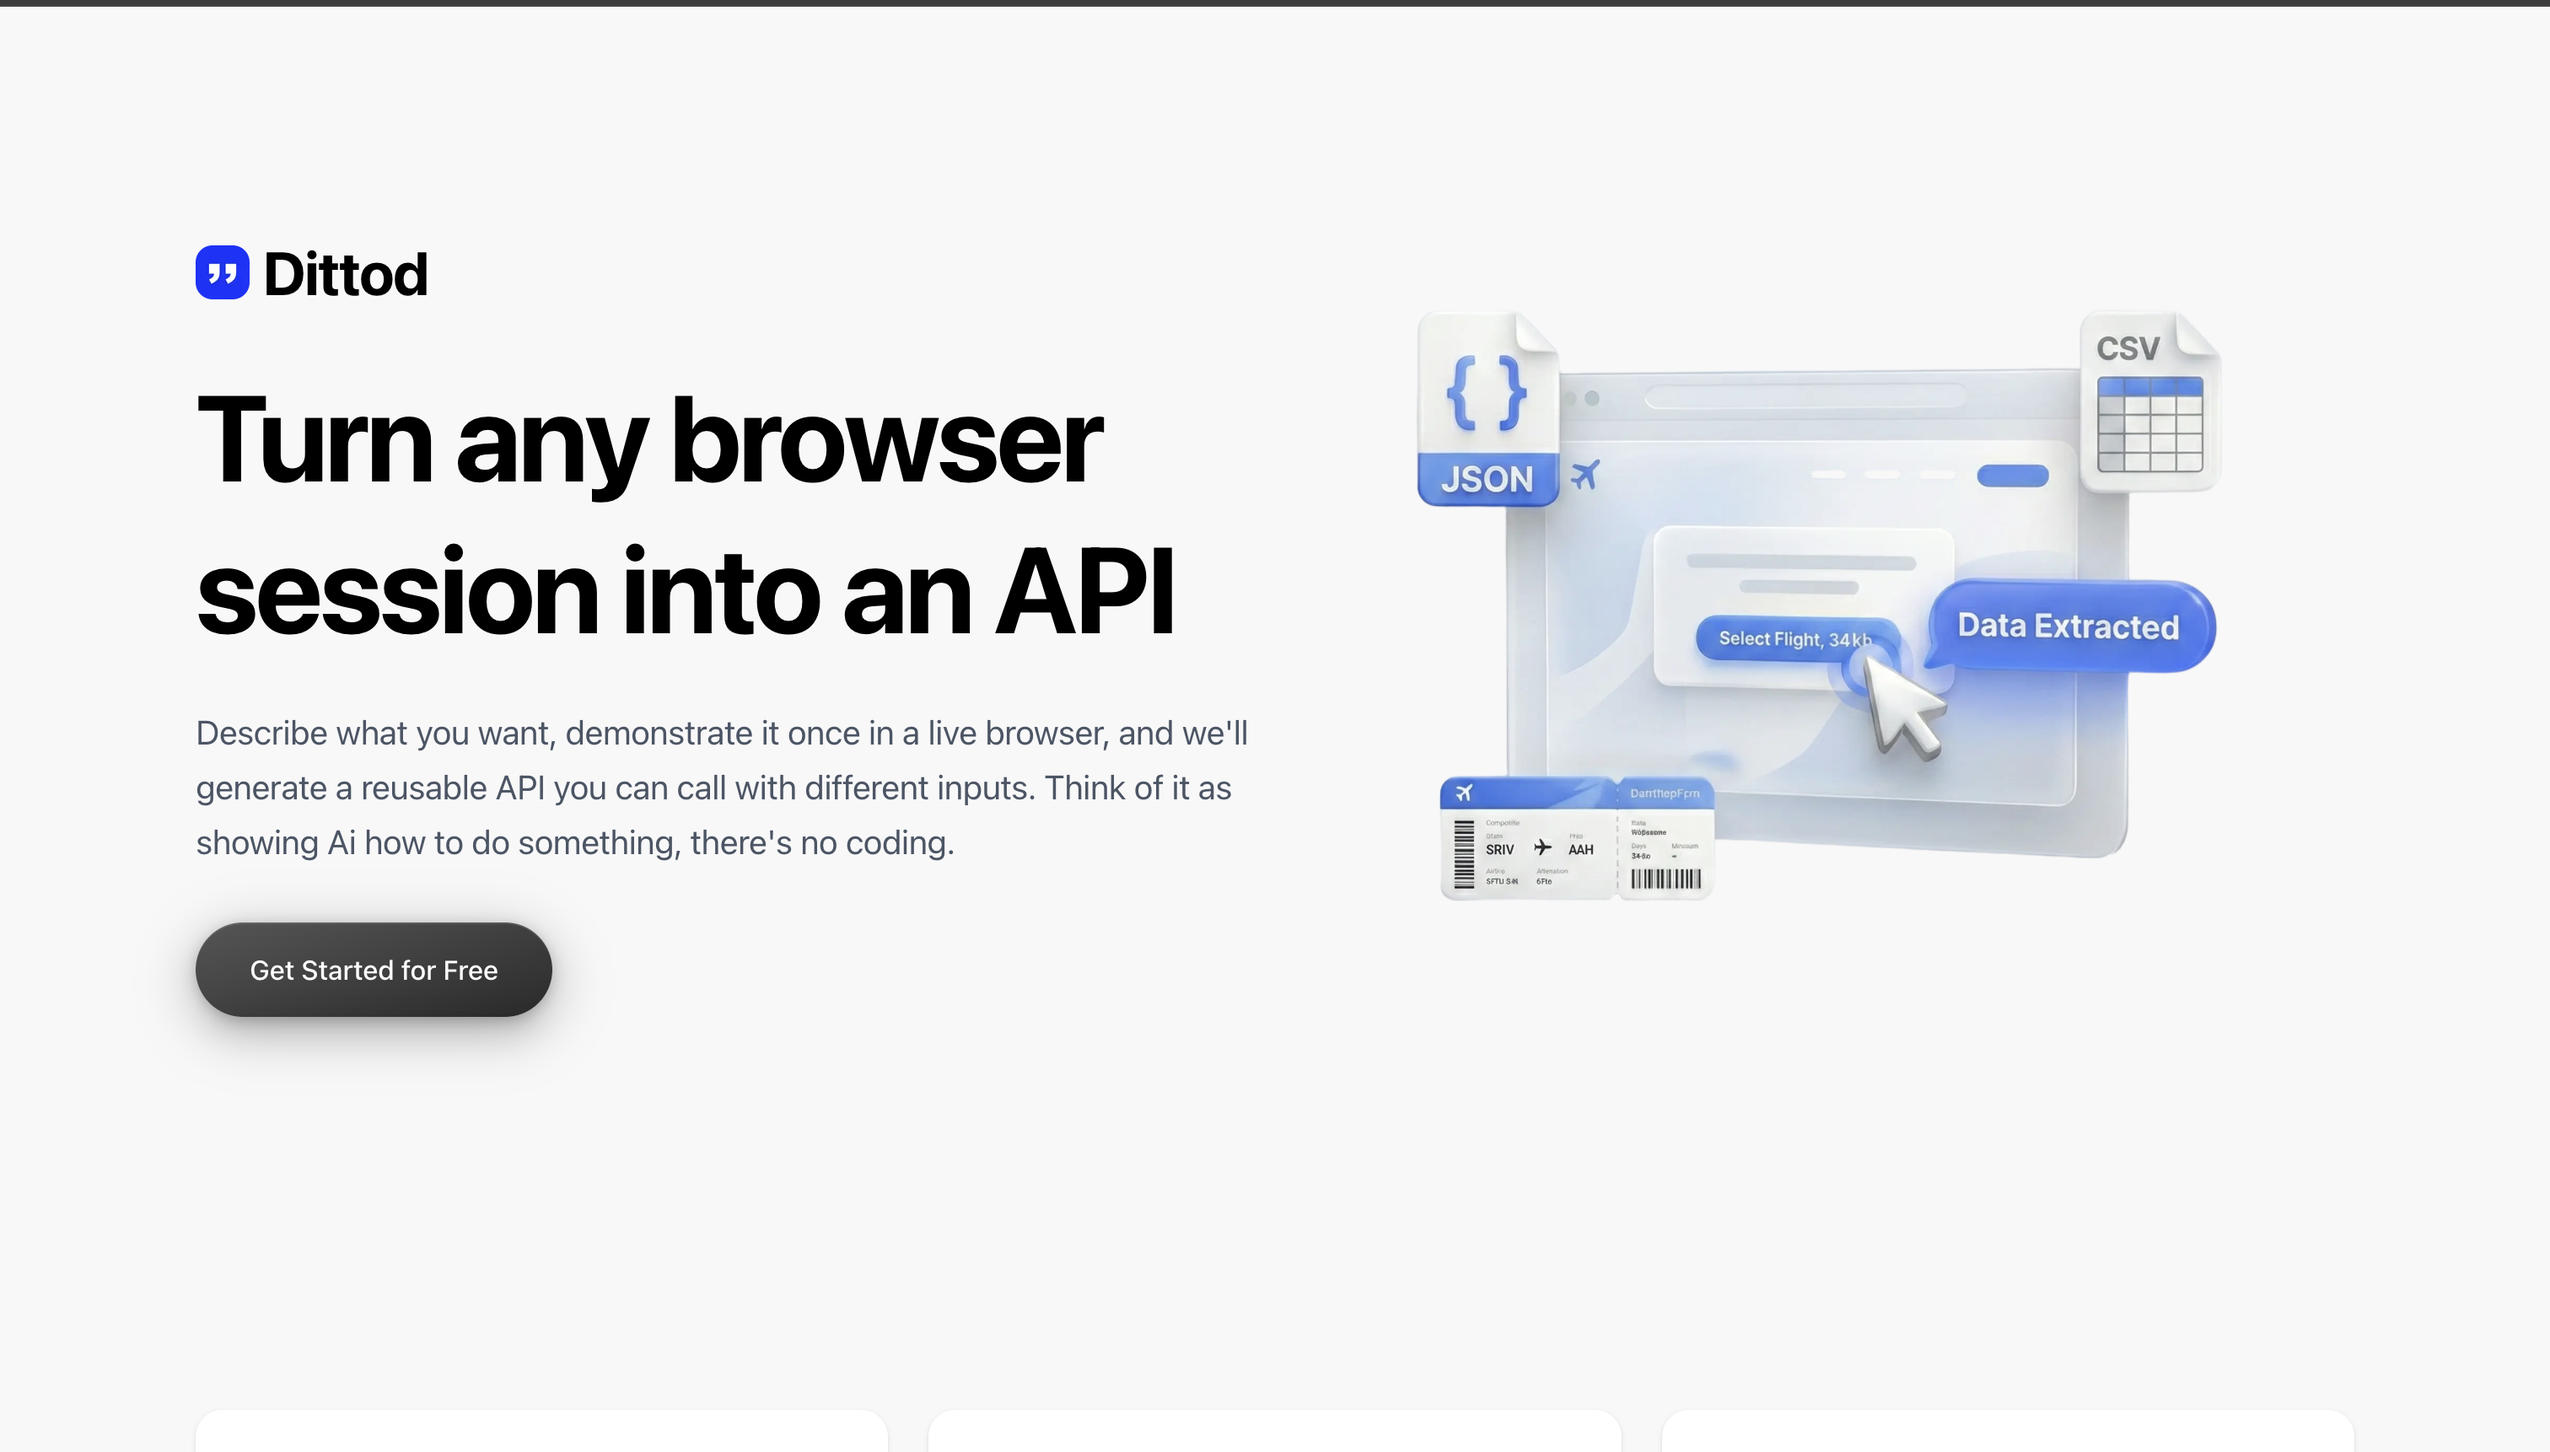
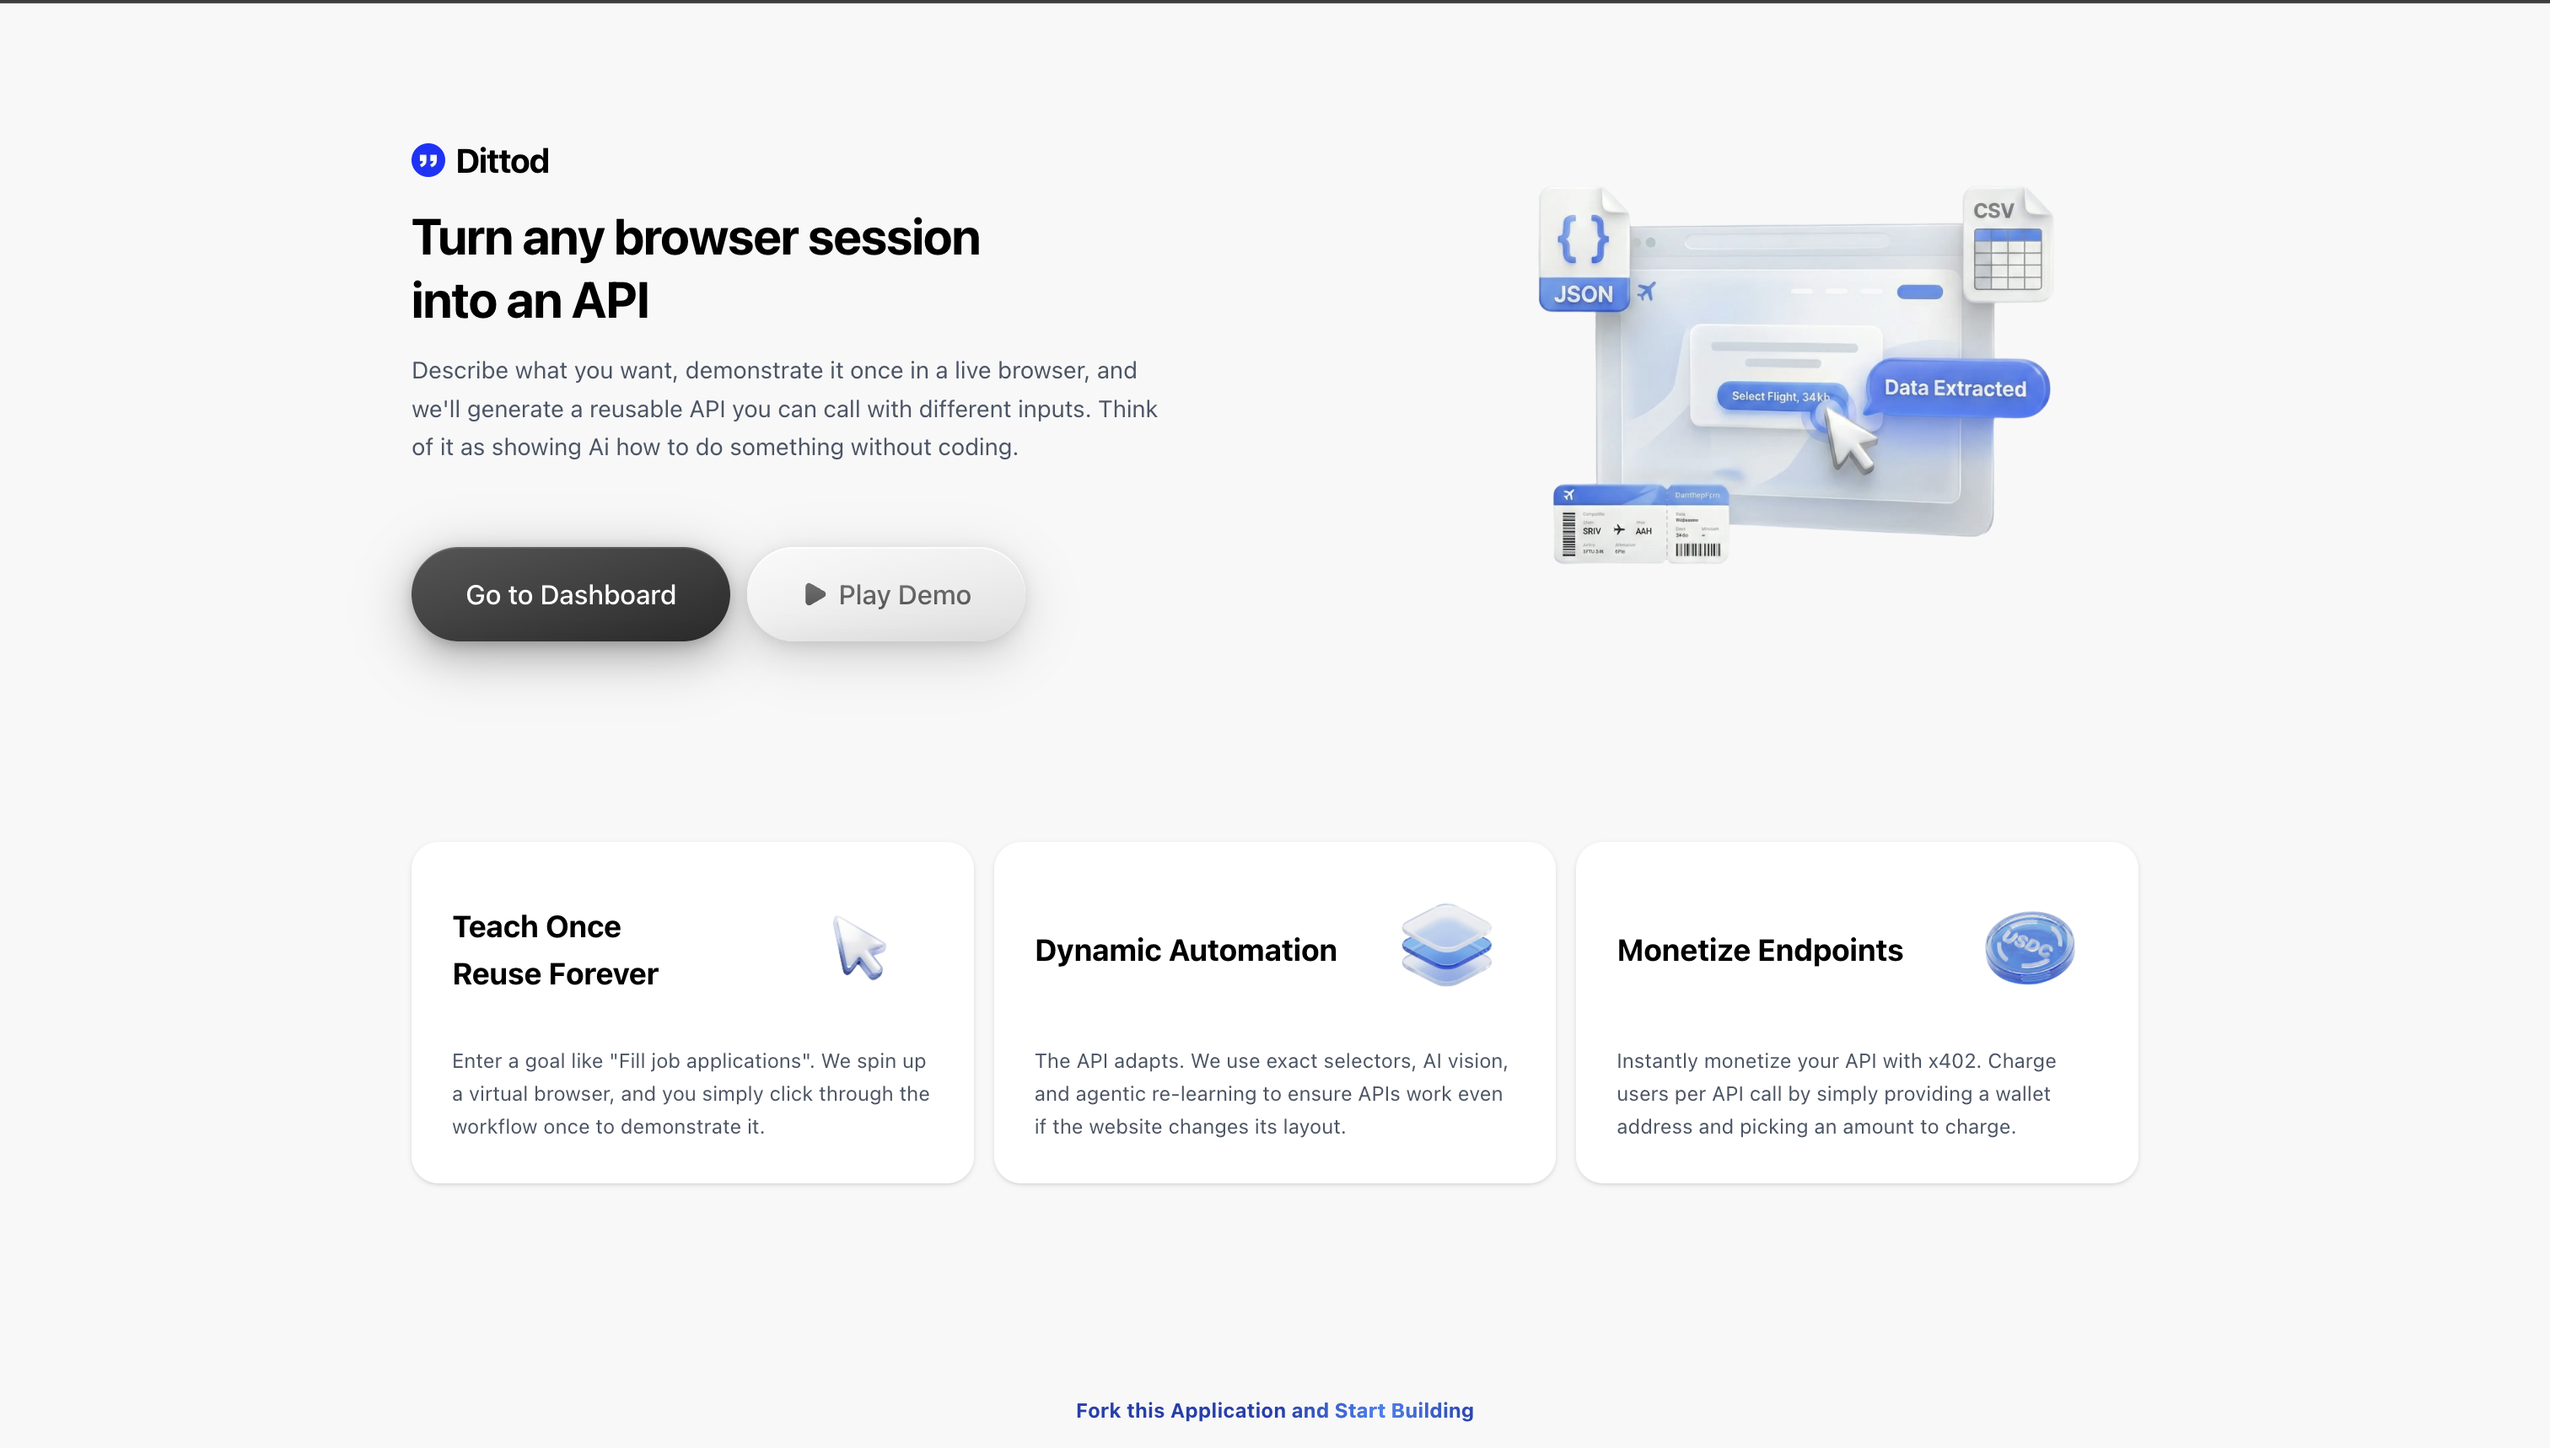
landing page update

diff --git a/app/page.tsx b/app/page.tsx
@@ -261,7 +261,7 @@ export default function LandingPage() {
               {/* Video container */}
               <div className="relative w-full aspect-video bg-slate-900">
                 <iframe
-                  src="https://www.youtube.com/embed/Y8ZI1uc6iBM?autoplay=1&rel=0"
+                  src="https://www.youtube.com/embed/g9g9qa-NV_A?si=1DE0zt9u-J-wN49g"
                   title="Dittod Demo"
                   allow="accelerometer; autoplay; clipboard-write; encrypted-media; gyroscope; picture-in-picture"
                   allowFullScreen
